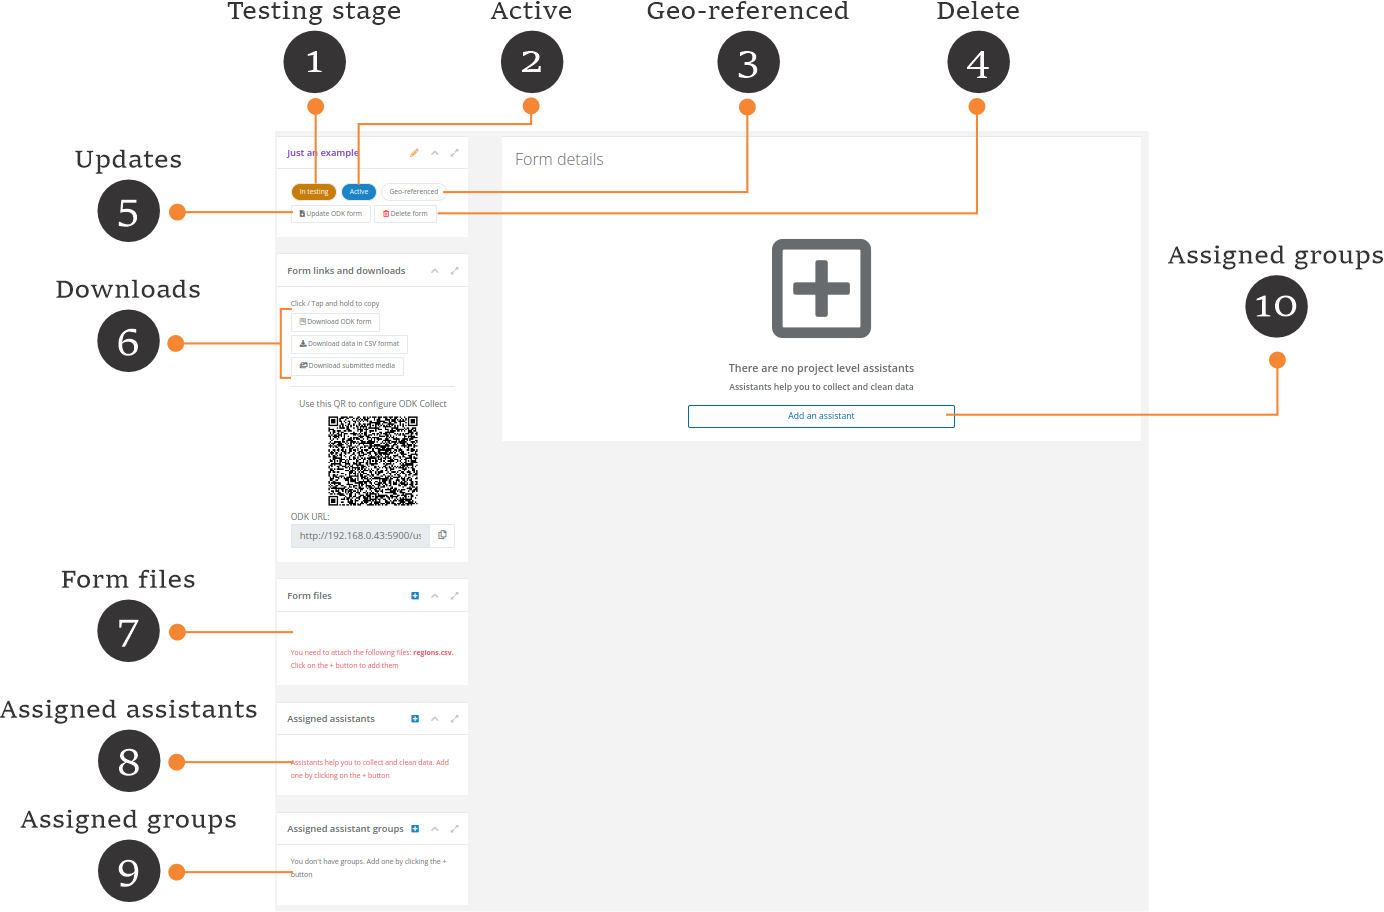
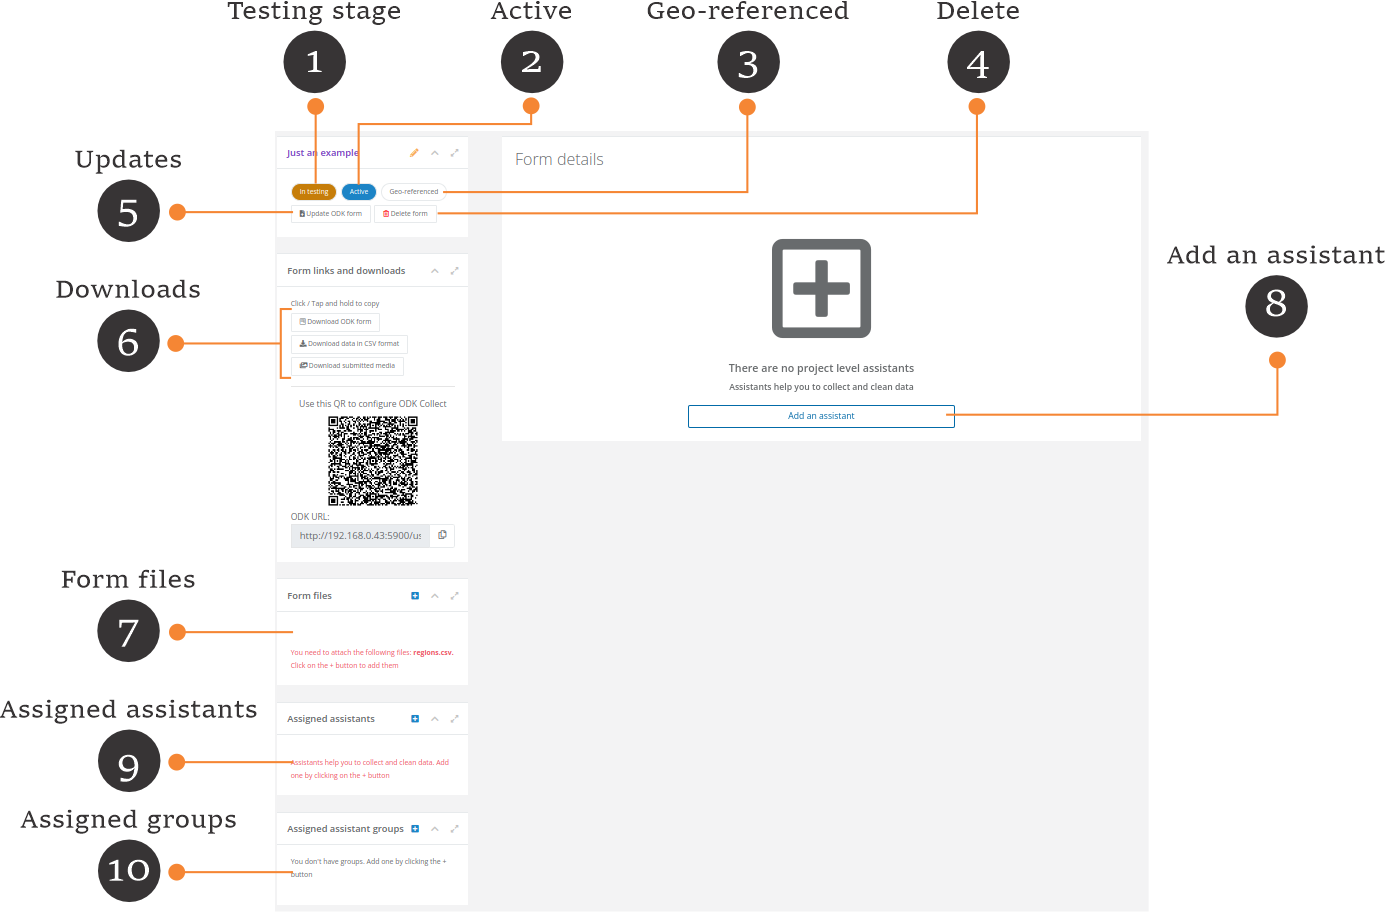
GitBook: [#14] More work in docs

diff --git a/docs/guides/creating-your-first-task/create-and-assign-assistants.md b/docs/guides/creating-your-first-task/create-and-assign-assistants.md
@@ -19,12 +19,71 @@ This behavior **is not the same** when your form has a repository. The section "
 4\. Delete: The delete button deletes the forms and all their data.
 
 {% hint style="info" %}
-FormShare does not physically (from the hard drive) removes any data. If you remove a form FormShare will remove it from the FormShare database and will not be accessible through the interface but its repository in MySQL will remain intact but marked as deleted. The same for any files and products generated in the form. The section "[How FormShare stores data](../../fundamentals/repositories/how-formshare-stores-data.md)" covers more details about this.
+FormShare does not physically (from the hard drive) removes any submissions. If you remove a form FormShare will remove it from the FormShare database and will not be accessible through the interface but its repository in MySQL will remain intact but marked as deleted. The same for any files and products generated in the form. The section "[How FormShare stores data](../../fundamentals/repositories/how-formshare-stores-data.md)" covers more details about this.
 {% endhint %}
 
-5\. Update ODK Form: As indicated in point 1 above, forms in a testing stage can be updated easily at any time. But remember: <mark style="color:red;">**Submissions received to a form in the testing stage are considered test data**</mark>. This means that any <mark style="color:red;">**submissions will be discarded**</mark> every time that you upload a new version of the form.
+5\. Update ODK Form: As indicated in point 1 above, forms in a testing stage can be updated easily at any time. To update the form click on the "Update ODK Form" button. The "Upload new version" window will appear:
+
+![](../../.gitbook/assets/upload\_new\_version.png)
+
+To upload a new version of a form, you need to provide the following information:
+
+* Survey file (XLS / XLSX): This is the updated ODK form file in Excel format.
+* Variable used to control duplicate submissions: FormShare will indicate the current variable used to control duplicate submissions.
+
+{% hint style="info" %}
+Remember: To control duplicate submissions, you need to select a variable from your ODK Form whose values will be **UNIQUE** across all the submissions that you expect to have. If you need to join two or more variables to become UNIQUE, then use an ODK Calculate to merge them into one variable. This variable will become the Primary Key of your ODK Form and CAN NOT BE CHANGED afterward.
+{% endhint %}
+
+{% hint style="warning" %}
+**Remember**: <mark style="color:red;">**Submissions received to a form in the testing stage are considered test data**</mark>. This means that any <mark style="color:red;">**submissions will be discarded**</mark> every time that you upload a new version of the form.
+{% endhint %}
 
 6\. Downloads: Submissions received to a form in the testing stage are considered test data. At this stage, FormShare provides minimal download types:
 
 * Download ODK form: This will download the ODK form in Excel format
-* Download data in CSV format: This is a "Flat CSV file". FormShare does not resolve any label names for data in the testing stage.&#x20;
+* Download data in CSV format: This is a "[Flat CSV file](../../data-management/data-products/flat-csv-one-csv-file.md)". FormShare does not [resolve option labels or multi-select fields](../../fundamentals/repositories/how-formshare-stores-data.md) for data in the testing stage.
+* Download submitted media: This is a Zip file containing any media submitted to the form. Media files will be separated by [submission ID](../../fundamentals/submissions.md).
+
+7\. Form files: ODK forms can use supporting files when collecting data. These files can be data or media files. If your form uses data files, e.g., CSV files, FormShare will alert you if such files are missing. FormShare will finish checking your form once you attach all necessary data files.
+
+![](../../.gitbook/assets/add\_files\_and\_check\_pending.png)
+
+To add a file click on the "+" button. You can select one or more files and decide to overwrite or not current files.
+
+{% hint style="warning" %}
+Case sensitive file names: FormShare is case sensitive, therefore if you declare a file in your ODK form called "Regions.csv" then you need to attach "**R**egions.csv" and not "**r**egions.csv".
+{% endhint %}
+
+8\. Add new assistants: At this stage, you don't have any project-level assistants. Click on the "Add an assistant" button to add a new assistant. The "Add Assistant" screen will appear.
+
+![](../../.gitbook/assets/add\_assistant.png)
+
+To add a new assistant you will need to provide the following information:
+
+* Assistant ID: This is a simple name to identify the assistant in FormShare. It is the name that the assistant will use in ODK Collect.
+
+{% hint style="info" %}
+The assistant id must be unique **across your account** and cannot be changed afterward.&#x20;
+{% endhint %}
+
+{% hint style="info" %}
+An assistant is defined in a project **but can be used** across several projects
+{% endhint %}
+
+* Full name: The full name of the assistant.
+* Email: The email of the assistant.
+* Time zone: This should be the time zone where the assistant performs activities.
+* Telephone: This is the telephone of the assistant. Optional.
+* Password: This is the password that the assistant will use in ODK Collect.
+* Share among projects: Since an assistant id must be unique across your account you can have one assistant in a project assisting other projects. Turn this check on (green) to allow this assistant to assist in other projects.
+
+9\. Assigned assistants: Assistants help you to collect and clean data. Once you have one or more assistants in your project you can assign them to a form. Click on the "+" button to assign an assistant to the form. The "Adding assistant" screen will appear.
+
+![](../../.gitbook/assets/assign\_assisstant.png)
+
+An assistant can submit data and/or clean data. Click on the "Add assistant" button to add the assistant to the form.
+
+10\. Assigned assistant groups. You can assign groups to a form in the same way that you assign assistants. Each group can submit data and/or clean data. Details on assistant groups are covered in the section "[Assistants](../../fundamentals/tasks.md)".
+
+At this stage, your form will be ready for testing. The next section covers more details on the testing stage.

diff --git a/docs/SUMMARY.md b/docs/SUMMARY.md
@@ -21,6 +21,7 @@
 * [Assistants](fundamentals/tasks.md)
 * [Repositories](fundamentals/repositories/README.md)
   * [How FormShare stores data?](fundamentals/repositories/how-formshare-stores-data.md)
+* [Submissions](fundamentals/submissions.md)
 * [Partners](fundamentals/partners.md)
 
 ## Data management
@@ -36,7 +37,8 @@
   * [Activating / de-activating a case](data-management/for-engineers/activating-de-activating-a-case.md)
 * [The data dictionary](use-cases/for-support/README.md)
   * [Marking fields as sensitive](use-cases/for-support/intercom-integration.md)
-* [Data products](data-management/data-products.md)
+* [Data products](data-management/data-products/README.md)
+  * [Flat CSV (One CSV file)](data-management/data-products/flat-csv-one-csv-file.md)
 
 ## Extras
 

diff --git a/docs/data-management/data-products/flat-csv-one-csv-file.md b/docs/data-management/data-products/flat-csv-one-csv-file.md
@@ -1,0 +1,2 @@
+# Flat CSV (One CSV file)
+

diff --git a/docs/fundamentals/submissions.md b/docs/fundamentals/submissions.md
@@ -1,0 +1,2 @@
+# Submissions
+
